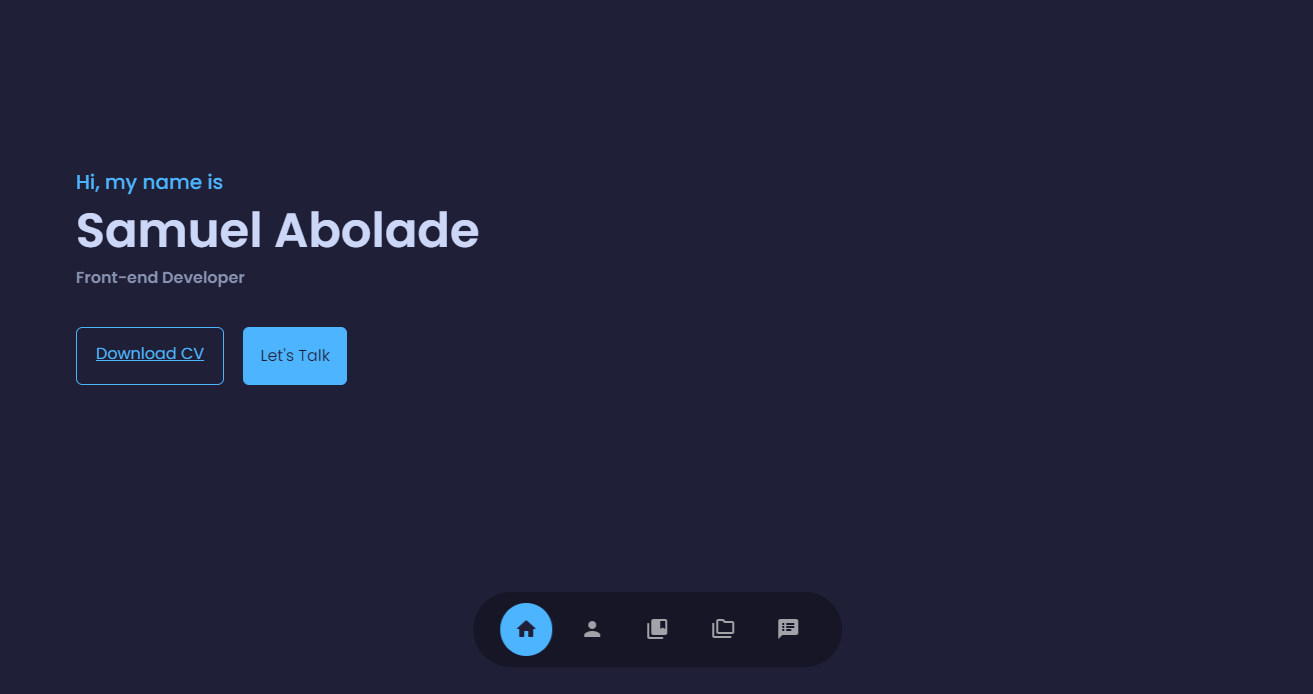
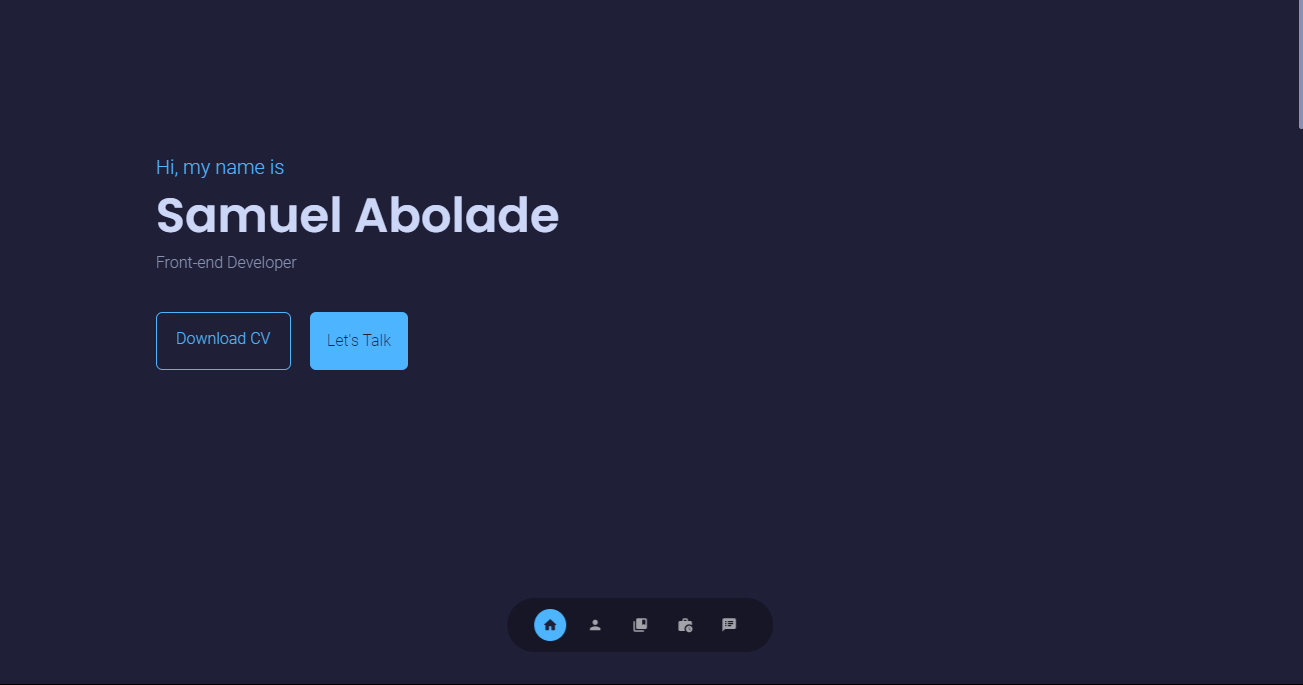
Vercel deploy1

diff --git a/src/index.css b/src/index.css
@@ -1,5 +1,6 @@
-@import url('https://fonts.googleapis.com/css2?family=Poppins:wght@300;400;500;600&display=swap');
-:root{
+/* @import url('https://fonts.googleapis.com/css2?family=Poppins:wght@300;400;500;600&display=swap'); */
+
+:root {
   --color-bg: #1f1f38;
   --color-bg-variant: #2c2c6c;
   --slate: #8892b0;
@@ -8,83 +9,98 @@
   --color-primary: #4db5ff;
   --color-primary-variant: rgba(77, 181, 255, 0.4);
   --color-white: #fff;
-  --color-light: rgba(255, 255, 255, 0.6);  
+  --color-light: rgba(255, 255, 255, 0.6);
   --container-width-lg: 75%;
   --container-width-md: 86%;
   --container-width-sm: 90%;
   --transition: all 400ms ease;
   --easing: cubic-bezier(0.645, 0.045, 0.355, 1);
   --transition: all 0.25s cubic-bezier(0.645, 0.045, 0.355, 1);
+
+  --font-sans: 'Calibre', 'Inter', 'San Francisco', 'SF Pro Text', -apple-system, system-ui,
+    sans-serif;
+  --font-mono: 'SF Mono', 'Fira Code', 'Fira Mono', 'Roboto Mono', monospace;
 }
 
 
-body{
+body {
   font-family: 'Poppins', sans-serif;
   background: var(--color-bg);
   color: var(--color-white);
   line-height: 1.7rem;
 }
-section{
+
+section {
   margin-top: 8rem;
-  /* max-width: 90%; */
   margin: auto;
   padding: 10px;
 }
-@media screen and (max-width: 300px ){
-  section{
+
+@media screen and (max-width: 300px) {
+  section {
     min-width: 100%;
-    border:1px solid red
+    border: 1px solid red
   }
-}  
-@media screen and (min-width: 300px){
-  section{
+}
+
+@media screen and (min-width: 300px) {
+  section {
     max-width: 75%;
   }
-}  
-@media screen and (max-width: 500px){
-  section{
+}
+
+@media screen and (max-width: 500px) {
+  section {
     min-width: 85%;
   }
-}  
+}
 
 ::selection {
   background-color: var(--light-navy);
   color: var(--light-slate);
 }
 
-html{
+html {
   scroll-behavior: smooth;
 }
+
 ::-webkit-scrollbar {
   width: 5px;
 }
+
 ::-webkit-scrollbar-track {
   background: var(--color-bg);
 }
+
 ::-webkit-scrollbar-thumb {
   background-color: var(--slate);
   border: 1px solid var(--slate);
   border-radius: 10px;
 }
 
-h1{
+h1 {
+  font-family: 'Poppins', sans-serif;
   font-size: 3rem;
   color: var(--light-slate);
   font-weight: 700;
 }
 
-h6{
+h6 {
   color: var(--slate);
 }
 
-h5{
+h5 {
   color: var(--color-primary);
 }
 
-h2,h3,h4,h5{
+h2,
+h3,
+h4,
+h5 {
   font-weight: 500;
 }
-header{
+
+header {
   height: 100vh;
   padding-top: 5rem;
   overflow: hidden;
@@ -135,7 +151,3 @@ header{
   opacity: 0;
   transition: opacity 300ms;
 }
-
-
-
-

diff --git a/src/components/projects/Projects.js b/src/components/projects/Projects.js
@@ -1,7 +1,7 @@
 import React from 'react'
 import StyledCard from '../about/StyledCard'
 import quizlet from '../../assets/quizlet.png'
-import portfolio from '../../assets/portfolio.PNG'
+import portfolio from '../../assets/portfolio.png'
 import { Fade } from 'react-reveal'
 
 const Projects = () => {
@@ -9,9 +9,9 @@ const Projects = () => {
         { name: "Quizlet quiz App", liveDemo: "https://quizlet001.netlify.app", image: quizlet, gitHub: "https://github.com/techie-sam/cbt_react_app" },
         { name: "React Portfolio", liveDemo: "#", image: portfolio, gitHub: "https://quizlet001.netlify.app" },
         { name: "Weather App", liveDemo: "https://weathermate001.netlify.app", image: "", gitHub: "https://github.com/techie-sam/weather-app" },
-        { name: "React Portfolio", liveDemo: "https://techie-sam.netlify.app", image: "", gitHub: "https://quizlet001.netlify.app" },
-        { name: "React Portfolio", liveDemo: "https://techie-sam.netlify.app", image: "", gitHub: "https://quizlet001.netlify.app" },
-        { name: "React Portfolio", liveDemo: "https://techie-sam.netlify.app", image: "", gitHub: "https://quizlet001.netlify.app" },
+        { name: "Twitter Clone", liveDemo: "https://techie-sam.netlify.app", image: "", gitHub: "https://quizlet001.netlify.app" },
+        { name: "React Portfolio0", liveDemo: "https://techie-sam.netlify.app", image: "", gitHub: "https://quizlet001.netlify.app" },
+        { name: "React Portfoli", liveDemo: "https://techie-sam.netlify.app", image: "", gitHub: "https://quizlet001.netlify.app" },
     ]
     return (
         <section id="projects">

diff --git a/src/components/header/Header.js b/src/components/header/Header.js
@@ -13,7 +13,7 @@ const items = [
 
 const Home = () => {
   const [inProp, setInProp] = useState(false);
-  const [CTAdisplay, setCTAdisplay  ] = useState(false);
+  const [CTAdisplay, setCTAdisplay] = useState(false);
 
   useEffect(() => {
     const timeout = setTimeout(() => setInProp(true), 1000);
@@ -23,11 +23,11 @@ const Home = () => {
 
   return (
 
-    <section id='home'>
-      <StyledHeader>
-        <TransitionGroup>
-          <header className='m-auto'>
-            {inProp && items.map((item, i) =>
+    <header id='home' className='m-auto'>
+      <section >
+        <StyledHeader>
+          <TransitionGroup>
+            {inProp  && items.map((item, i) =>
               <CSSTransition key={i} in={inProp} timeout={2000} classNames="fadeup">
                 <div className="fadeup-component" style={{ transitionDelay: `${i + 1}00ms` }} >
                   {item}
@@ -37,10 +37,10 @@ const Home = () => {
             {
               CTAdisplay && <CTA />
             }
-          </header>
-        </TransitionGroup>
-      </ StyledHeader>
-    </section>
+          </TransitionGroup>
+        </ StyledHeader>
+      </section>
+    </header>
 
   )
 };

diff --git a/src/App.css b/src/App.css
@@ -1,4 +1,5 @@
-@import url('https://fonts.googleapis.com/css2?family=Poppins:wght@300;400;500;600&display=swap');
+/* @import url('https://fonts.googleapis.com/css2?family=Poppins:wght@300;400;500;600&display=swap'); */
+@import url('https://fonts.googleapis.com/css2?family=Roboto:wght@300&display=swap');
 *{
     margin: 0;
     padding: 0;
@@ -11,7 +12,8 @@
 }
 
 body{
-    font-family: 'Poppins', sans-serif;
+    /* font-family: 'Poppins', sans-serif; */
+    font-family: 'Roboto', sans-serif;
     background: var(--color-bg);
     color: var(--color-white);
     line-height: 1.7rem;

diff --git a/src/components/header/StyledHeader.js b/src/components/header/StyledHeader.js
@@ -3,7 +3,7 @@ const StyledHeader = styled.header`
   h1{
     font-size: 3rem;
     color: var(--light-slate);
-    font-weight: 700;
+    font-weight: 1000;
   } 
   h5{
     color: var(--color-primary)
